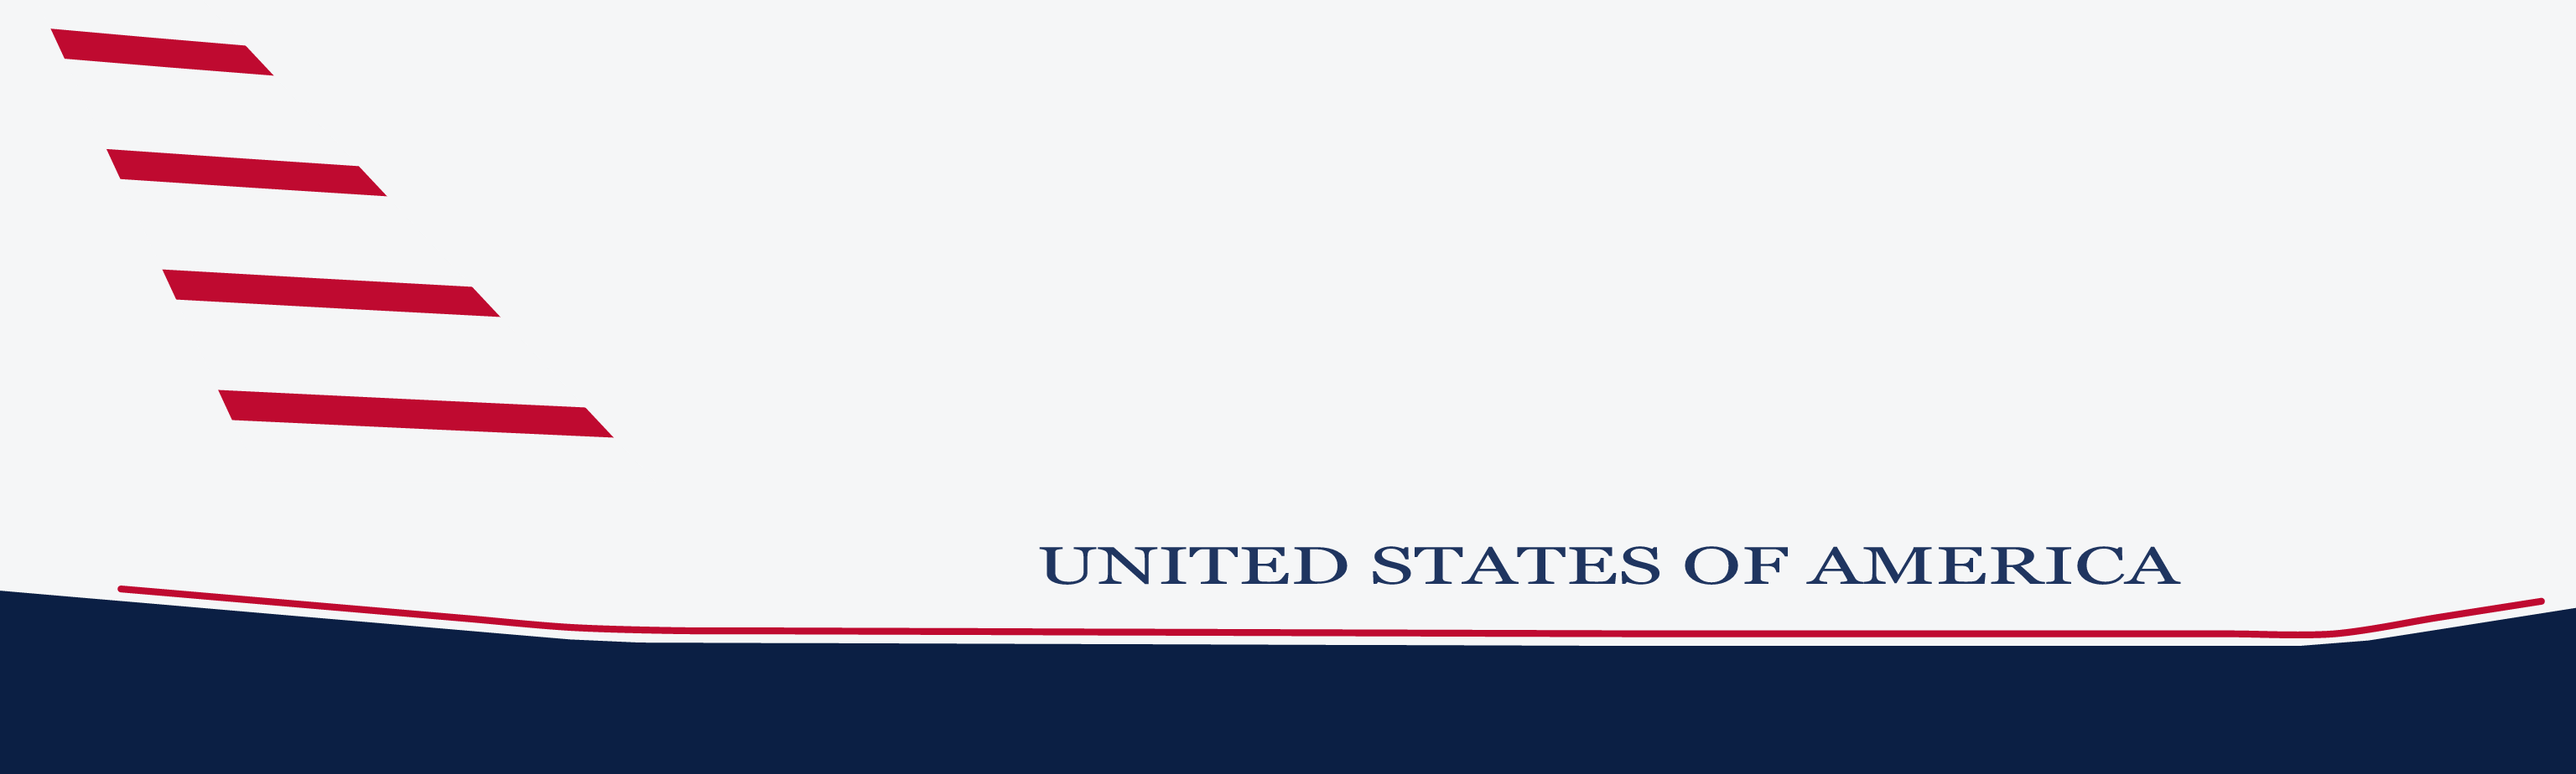
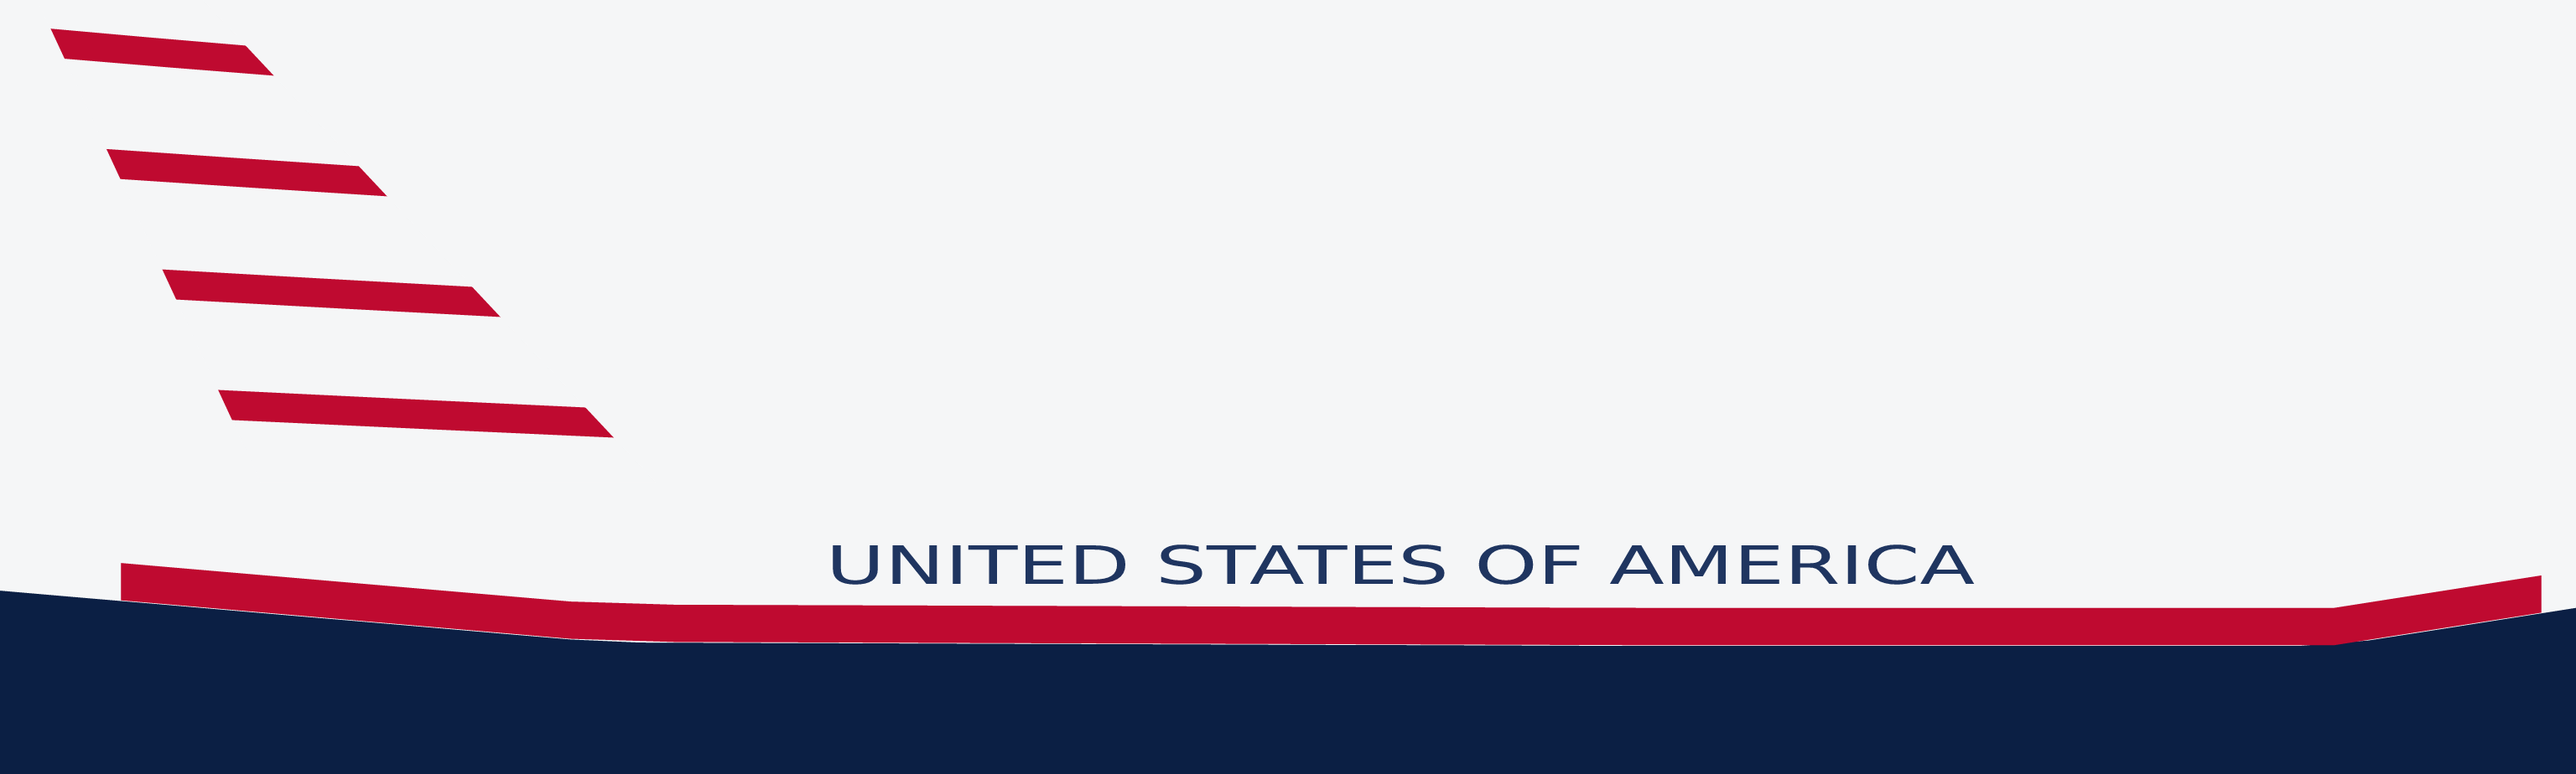
fix: AF1 classic nose is blue; 2026 cheatline covers the window row and lettering moves aft
Classic: the blue cove wraps the nose up to under the cockpit glazing. 2026: the red cheatline is widened to cover the main-deck window row (y ~ -5.45 m); the national lettering moves 6 m aft. Atlas version bumped.

Agent: Pi Agent

Model: claude-opus-5.5 (github-copilot)

Changed region(s): [[0.0312, 0.697, 1.0, 0.8485]]

diff --git a/src/a380-paint.js b/src/a380-paint.js
@@ -10,7 +10,7 @@ import {A380_NATIVE} from './a380-liveries.js';
 export const A380_ATLAS={x0:-37.5,x1:37.0,y0:-9.8,y1:12.6};
 const ROOT='/assets/a380-liveries/';
 // Bump when generated atlases change: the server gives /assets/* a 24-hour browser cache.
-export const A380_ATLAS_VERSION='20261116-1';
+export const A380_ATLAS_VERSION='20261117-1';
 const FIN_BASE_Y=-1.4;
 
 const BODY_MATERIAL=/^A380X_FUSE[1235]$/;
